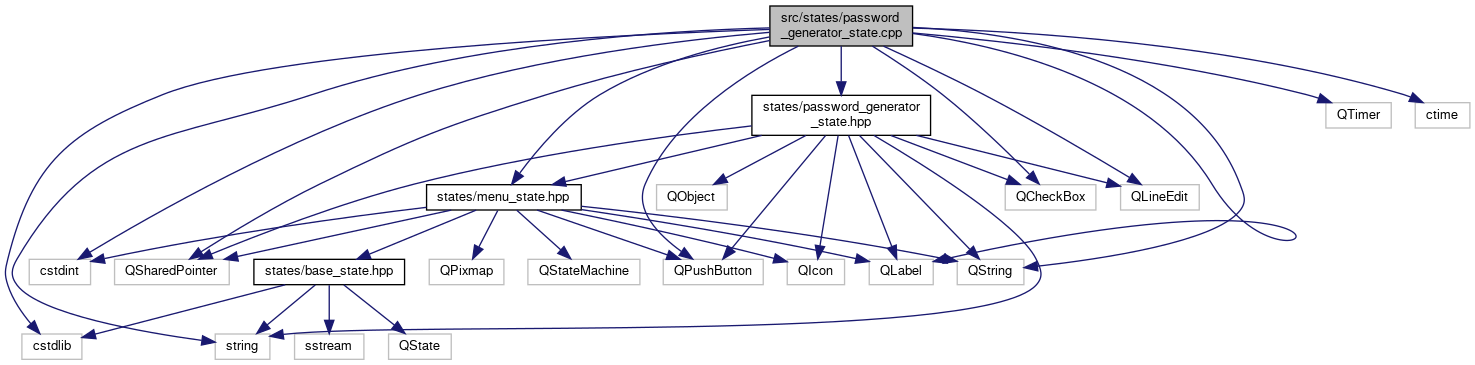
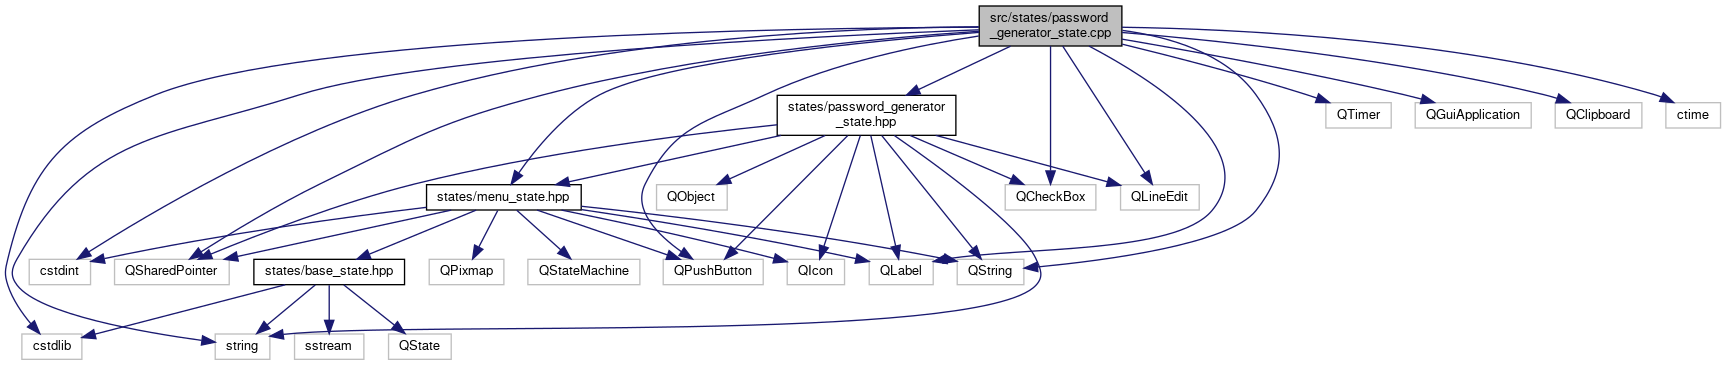
Update docs

diff --git a/docs/password__generator__state_8hpp_source.html b/docs/password__generator__state_8hpp_source.html
@@ -184,7 +184,7 @@ $(function() {
 <div class="ttc" id="aclasskmanager_1_1state_1_1PasswordGeneratorState_html_a52d842b71c4511268aded36c5ba47400"><div class="ttname"><a href="classkmanager_1_1state_1_1PasswordGeneratorState.html#a52d842b71c4511268aded36c5ba47400">kmanager::state::PasswordGeneratorState::comment_label</a></div><div class="ttdeci">QSharedPointer&lt; QLabel &gt; comment_label</div><div class="ttdef"><b>Definition:</b> password_generator_state.hpp:63</div></div>
 <div class="ttc" id="aclasskmanager_1_1state_1_1PasswordGeneratorState_html_a55687cccfab53d521e4971aab5b12a35"><div class="ttname"><a href="classkmanager_1_1state_1_1PasswordGeneratorState.html#a55687cccfab53d521e4971aab5b12a35">kmanager::state::PasswordGeneratorState::symbols_label</a></div><div class="ttdeci">QSharedPointer&lt; QLabel &gt; symbols_label</div><div class="ttdef"><b>Definition:</b> password_generator_state.hpp:69</div></div>
 <div class="ttc" id="aclasskmanager_1_1state_1_1PasswordGeneratorState_html_a55a56beb5a812c5dbe45e104acb94b5c"><div class="ttname"><a href="classkmanager_1_1state_1_1PasswordGeneratorState.html#a55a56beb5a812c5dbe45e104acb94b5c">kmanager::state::PasswordGeneratorState::lowercase_checkbox</a></div><div class="ttdeci">QSharedPointer&lt; QCheckBox &gt; lowercase_checkbox</div><div class="ttdef"><b>Definition:</b> password_generator_state.hpp:76</div></div>
-<div class="ttc" id="aclasskmanager_1_1state_1_1PasswordGeneratorState_html_a5721a3e54f671e6f75c7a336e1a1cf13"><div class="ttname"><a href="classkmanager_1_1state_1_1PasswordGeneratorState.html#a5721a3e54f671e6f75c7a336e1a1cf13">kmanager::state::PasswordGeneratorState::PasswordGeneratorState</a></div><div class="ttdeci">PasswordGeneratorState(MenuState *host, QState *parent=nullptr)</div><div class="ttdoc">Construct a new PasswordGeneratorState object.</div><div class="ttdef"><b>Definition:</b> password_generator_state.cpp:45</div></div>
+<div class="ttc" id="aclasskmanager_1_1state_1_1PasswordGeneratorState_html_a5721a3e54f671e6f75c7a336e1a1cf13"><div class="ttname"><a href="classkmanager_1_1state_1_1PasswordGeneratorState.html#a5721a3e54f671e6f75c7a336e1a1cf13">kmanager::state::PasswordGeneratorState::PasswordGeneratorState</a></div><div class="ttdeci">PasswordGeneratorState(MenuState *host, QState *parent=nullptr)</div><div class="ttdoc">Construct a new PasswordGeneratorState object.</div><div class="ttdef"><b>Definition:</b> password_generator_state.cpp:47</div></div>
 <div class="ttc" id="aclasskmanager_1_1state_1_1PasswordGeneratorState_html_a596971b972d632ffbf6b26ceb5e22deb"><div class="ttname"><a href="classkmanager_1_1state_1_1PasswordGeneratorState.html#a596971b972d632ffbf6b26ceb5e22deb">kmanager::state::PasswordGeneratorState::length_label</a></div><div class="ttdeci">QSharedPointer&lt; QLabel &gt; length_label</div><div class="ttdef"><b>Definition:</b> password_generator_state.hpp:68</div></div>
 <div class="ttc" id="aclasskmanager_1_1state_1_1PasswordGeneratorState_html_a65c92c4c34a75ec02a2590a069756c53"><div class="ttname"><a href="classkmanager_1_1state_1_1PasswordGeneratorState.html#a65c92c4c34a75ec02a2590a069756c53">kmanager::state::PasswordGeneratorState::menu_button</a></div><div class="ttdeci">QSharedPointer&lt; QPushButton &gt; menu_button</div><div class="ttdef"><b>Definition:</b> password_generator_state.hpp:73</div></div>
 <div class="ttc" id="aclasskmanager_1_1state_1_1PasswordGeneratorState_html_a6794655175ced037cb41554961297e36"><div class="ttname"><a href="classkmanager_1_1state_1_1PasswordGeneratorState.html#a6794655175ced037cb41554961297e36">kmanager::state::PasswordGeneratorState::numbers_label</a></div><div class="ttdeci">QSharedPointer&lt; QLabel &gt; numbers_label</div><div class="ttdef"><b>Definition:</b> password_generator_state.hpp:70</div></div>
@@ -192,7 +192,7 @@ $(function() {
 <div class="ttc" id="aclasskmanager_1_1state_1_1PasswordGeneratorState_html_a71c9eb11c81fc2f625ecf07aa41eebf7"><div class="ttname"><a href="classkmanager_1_1state_1_1PasswordGeneratorState.html#a71c9eb11c81fc2f625ecf07aa41eebf7">kmanager::state::PasswordGeneratorState::length_line_edit</a></div><div class="ttdeci">QSharedPointer&lt; QLineEdit &gt; length_line_edit</div><div class="ttdef"><b>Definition:</b> password_generator_state.hpp:81</div></div>
 <div class="ttc" id="aclasskmanager_1_1state_1_1PasswordGeneratorState_html_a79a525c5232dbdf606593b2697aef830"><div class="ttname"><a href="classkmanager_1_1state_1_1PasswordGeneratorState.html#a79a525c5232dbdf606593b2697aef830">kmanager::state::PasswordGeneratorState::password_generator_output</a></div><div class="ttdeci">QSharedPointer&lt; QLabel &gt; password_generator_output</div><div class="ttdef"><b>Definition:</b> password_generator_state.hpp:64</div></div>
 <div class="ttc" id="aclasskmanager_1_1state_1_1PasswordGeneratorState_html_a7c0586b235e6c0a1e61f71b15b4c322d"><div class="ttname"><a href="classkmanager_1_1state_1_1PasswordGeneratorState.html#a7c0586b235e6c0a1e61f71b15b4c322d">kmanager::state::PasswordGeneratorState::copy_button</a></div><div class="ttdeci">QSharedPointer&lt; QPushButton &gt; copy_button</div><div class="ttdef"><b>Definition:</b> password_generator_state.hpp:75</div></div>
-<div class="ttc" id="aclasskmanager_1_1state_1_1PasswordGeneratorState_html_a80a5d5c6d0025824e2c2d38e052de1c9"><div class="ttname"><a href="classkmanager_1_1state_1_1PasswordGeneratorState.html#a80a5d5c6d0025824e2c2d38e052de1c9">kmanager::state::PasswordGeneratorState::~PasswordGeneratorState</a></div><div class="ttdeci">~PasswordGeneratorState()</div><div class="ttdoc">Destruct a new PasswordGeneratorState object.</div><div class="ttdef"><b>Definition:</b> password_generator_state.cpp:65</div></div>
+<div class="ttc" id="aclasskmanager_1_1state_1_1PasswordGeneratorState_html_a80a5d5c6d0025824e2c2d38e052de1c9"><div class="ttname"><a href="classkmanager_1_1state_1_1PasswordGeneratorState.html#a80a5d5c6d0025824e2c2d38e052de1c9">kmanager::state::PasswordGeneratorState::~PasswordGeneratorState</a></div><div class="ttdeci">~PasswordGeneratorState()</div><div class="ttdoc">Destruct a new PasswordGeneratorState object.</div><div class="ttdef"><b>Definition:</b> password_generator_state.cpp:67</div></div>
 <div class="ttc" id="aclasskmanager_1_1state_1_1PasswordGeneratorState_html_a837f487e11ec835c9a8dce3212db7875"><div class="ttname"><a href="classkmanager_1_1state_1_1PasswordGeneratorState.html#a837f487e11ec835c9a8dce3212db7875">kmanager::state::PasswordGeneratorState::symbols_checkbox</a></div><div class="ttdeci">QSharedPointer&lt; QCheckBox &gt; symbols_checkbox</div><div class="ttdef"><b>Definition:</b> password_generator_state.hpp:78</div></div>
 <div class="ttc" id="aclasskmanager_1_1state_1_1PasswordGeneratorState_html_a881f596814a20cdfac044d33640b22e7"><div class="ttname"><a href="classkmanager_1_1state_1_1PasswordGeneratorState.html#a881f596814a20cdfac044d33640b22e7">kmanager::state::PasswordGeneratorState::copied</a></div><div class="ttdeci">QSharedPointer&lt; QLabel &gt; copied</div><div class="ttdef"><b>Definition:</b> password_generator_state.hpp:72</div></div>
 <div class="ttc" id="aclasskmanager_1_1state_1_1PasswordGeneratorState_html_a9958ceeb0a6a79f29b6e03d709a10d3e"><div class="ttname"><a href="classkmanager_1_1state_1_1PasswordGeneratorState.html#a9958ceeb0a6a79f29b6e03d709a10d3e">kmanager::state::PasswordGeneratorState::numbers_checkbox</a></div><div class="ttdeci">QSharedPointer&lt; QCheckBox &gt; numbers_checkbox</div><div class="ttdef"><b>Definition:</b> password_generator_state.hpp:79</div></div>

diff --git a/docs/password__generator__state_8cpp.html b/docs/password__generator__state_8cpp.html
@@ -82,6 +82,8 @@ $(function() {
 <code>#include &lt;QLineEdit&gt;</code><br />
 <code>#include &lt;QTimer&gt;</code><br />
 <code>#include &lt;QString&gt;</code><br />
+<code>#include &lt;QGuiApplication&gt;</code><br />
+<code>#include &lt;QClipboard&gt;</code><br />
 <code>#include &lt;ctime&gt;</code><br />
 <code>#include &lt;cstdlib&gt;</code><br />
 <code>#include &lt;cstdint&gt;</code><br />
@@ -91,7 +93,7 @@ Include dependency graph for password_generator_state.cpp:</div>
 <div class="dyncontent">
 <div class="center"><img src="password__generator__state_8cpp__incl.png" border="0" usemap="#asrc_2states_2password__generator__state_8cpp" alt=""/></div>
 <map name="asrc_2states_2password__generator__state_8cpp" id="asrc_2states_2password__generator__state_8cpp">
-<area shape="rect" title=" " alt="" coords="770,5,913,47"/>
+<area shape="rect" title=" " alt="" coords="979,5,1122,47"/>
 <area shape="rect" href="menu__state_8hpp.html" title=" " alt="" coords="427,184,581,211"/>
 <area shape="rect" title=" " alt="" coords="22,333,82,360"/>
 <area shape="rect" title=" " alt="" coords="215,333,270,360"/>
@@ -100,11 +102,13 @@ Include dependency graph for password_generator_state.cpp:</div>
 <area shape="rect" title=" " alt="" coords="869,259,933,285"/>
 <area shape="rect" title=" " alt="" coords="957,259,1024,285"/>
 <area shape="rect" title=" " alt="" coords="29,259,91,285"/>
-<area shape="rect" href="password__generator__state_8hpp.html" title=" " alt="" coords="752,95,931,136"/>
+<area shape="rect" href="password__generator__state_8hpp.html" title=" " alt="" coords="777,95,956,136"/>
 <area shape="rect" title=" " alt="" coords="1005,184,1096,211"/>
 <area shape="rect" title=" " alt="" coords="1121,184,1199,211"/>
 <area shape="rect" title=" " alt="" coords="1326,102,1391,129"/>
-<area shape="rect" title=" " alt="" coords="1415,102,1470,129"/>
+<area shape="rect" title=" " alt="" coords="1415,102,1531,129"/>
+<area shape="rect" title=" " alt="" coords="1555,102,1642,129"/>
+<area shape="rect" title=" " alt="" coords="1666,102,1721,129"/>
 <area shape="rect" href="base__state_8hpp.html" title=" " alt="" coords="254,259,405,285"/>
 <area shape="rect" title=" " alt="" coords="528,259,640,285"/>
 <area shape="rect" title=" " alt="" coords="787,259,845,285"/>
